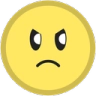
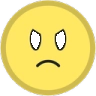
Add files via upload

Changed region(s): [[0.5625, 0.2812, 0.7188, 0.5312], [0.3125, 0.3125, 0.4375, 0.5312]]

diff --git a/public/index.html b/public/index.html
@@ -85,7 +85,7 @@
             petalCount: 5,
             normalDistance: 45,
             attackDistance: 90,
-            defendDistance: 25,
+            defendDistance: 36, // 防御时别贴进身体
             currentDistance: 45,
             targetDistance: 45,
             rotationAngle: 0,
@@ -199,25 +199,25 @@
 
             // ================== 开始分层渲染角色 ==================
 
-            // 【第一层】画底层黑底眼眶
+            // 【第一层】底层黑色眼眶
             drawBodyImg(imgNormalEye, 1);
             drawBodyImg(imgAttackEye, aBlend);
             drawBodyImg(imgDefendEye, dBlend);
 
-            // 【第二层】画白色动态眼球
+            // 【第二层】白色动态眼球
             const scale = imgSize / 96;
 
-            // 整体往左一点、往下微调一点
-            const leftEyeBaseX = -13 * scale;
+            // 删除整体向左偏移，改回左右对称；保留略微向下
+            const leftEyeBaseX = -12 * scale;
             const leftEyeBaseY = -7.5 * scale;
-            const rightEyeBaseX = 11 * scale;
+            const rightEyeBaseX = 12 * scale;
             const rightEyeBaseY = -7.5 * scale;
 
             const highlightMove = 6 * scale;
             const facingAngle = pData.facingAngle || 0;
             
             const eyeOffsetXScale = 0.65;
-            const eyeOffsetYScale = 1.15; // 上下移动幅度再减小一点
+            const eyeOffsetYScale = 1.15;
 
             const offsetX = Math.cos(facingAngle) * highlightMove * eyeOffsetXScale;
             const offsetY = Math.sin(facingAngle) * highlightMove * eyeOffsetYScale;
@@ -246,9 +246,10 @@
                 Math.PI * 2
             );
             ctx.fill();
+
             ctx.restore();
 
-            // 【第三层】画顶层镂空身体（挡住超出的眼球）
+            // 【第三层】顶层镂空身体（裁掉超出眼眶的眼球）
             drawBodyImg(imgNormal, 1);
             drawBodyImg(imgAttack, aBlend);
             drawBodyImg(imgDefend, dBlend);